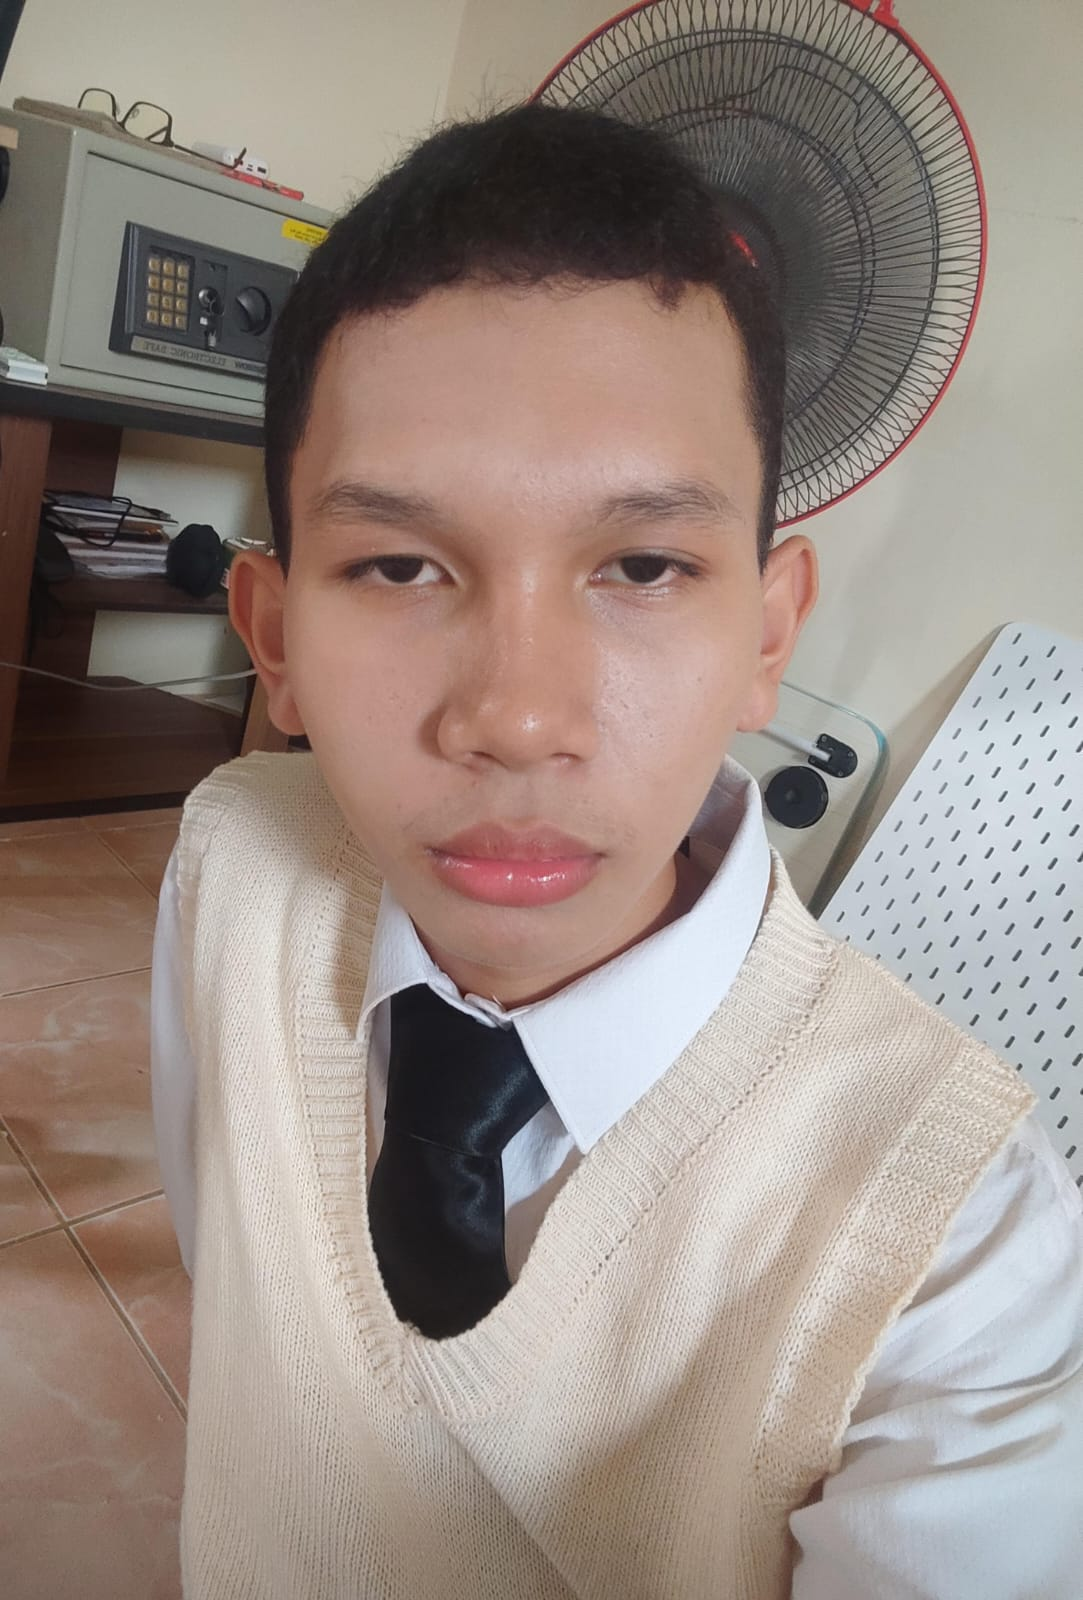
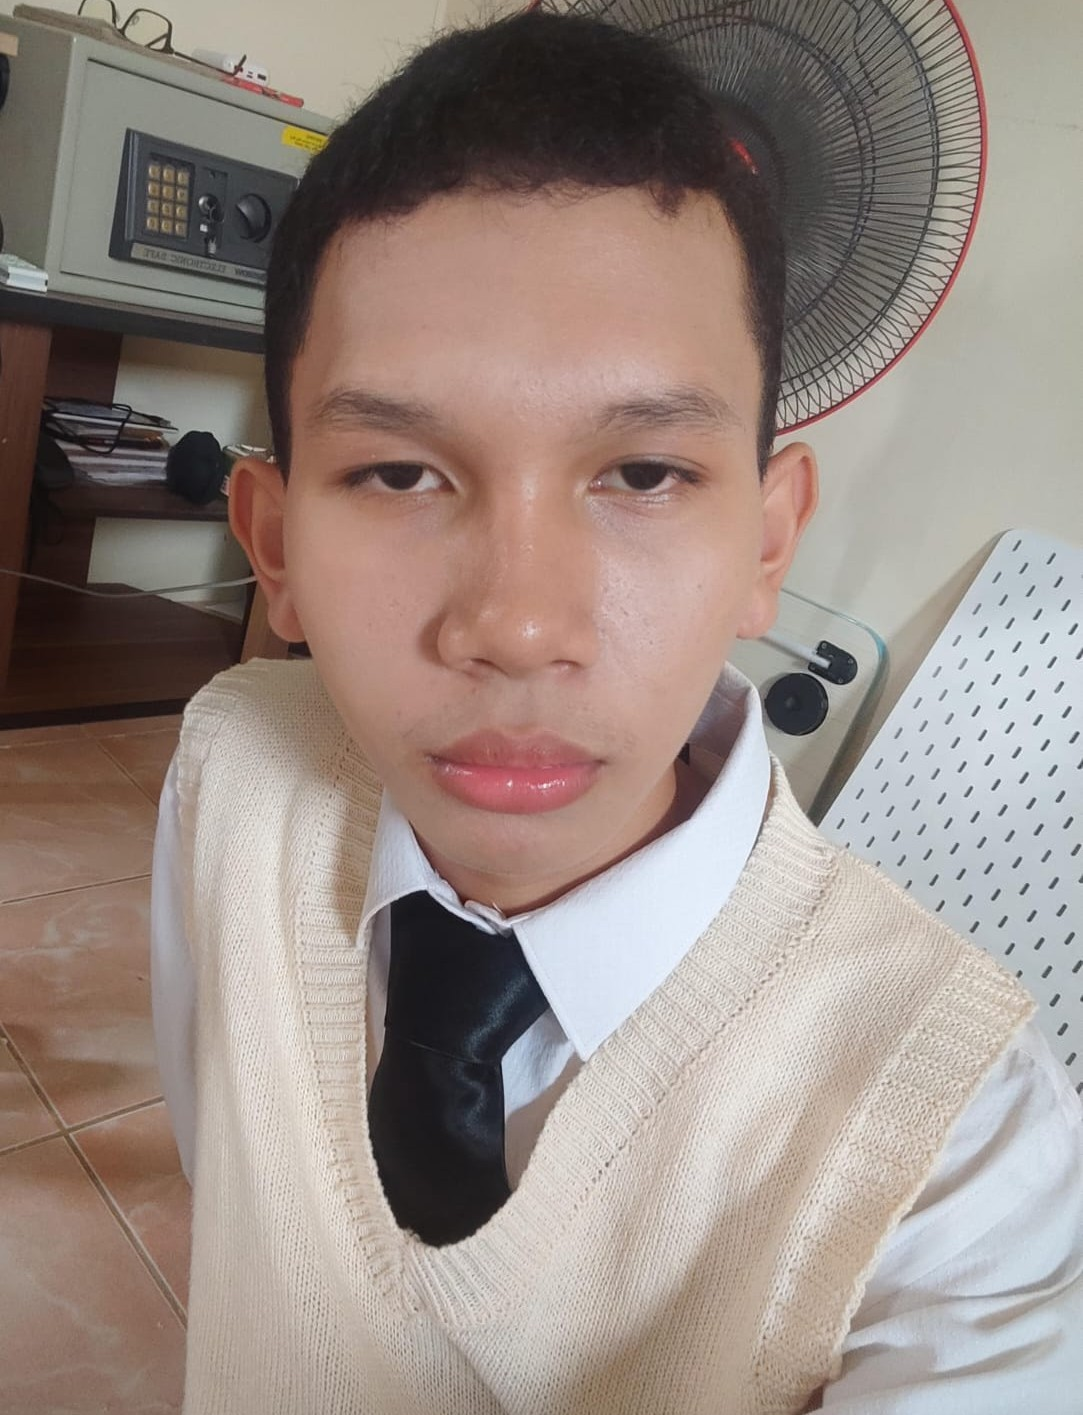
Melanjutkan mendesain landing page, menambahkan href ke navbar di landing page, halaman login, halaman registrasi, dan menambahkan satu halaman baru yaitu halaman projek

diff --git a/projek.html b/projek.html
@@ -1,0 +1,138 @@
+<!DOCTYPE html>
+<html lang="en">
+
+<head>
+  <meta charset="UTF-8" />
+  <meta name="viewport" content="width=device-width, initial-scale=1.0" />
+  <title>PortoPBL</title>
+
+  <link rel="preconnect" href="https://fonts.googleapis.com">
+  <link rel="preconnect" href="https://fonts.gstatic.com" crossorigin>
+  <link href="https://fonts.googleapis.com/css2?family=Poppins:ital,wght@0,100;0,200;0,300;0,400;0,500;0,600;0,700;0,800;0,900;1,100;1,200;1,300;1,400;1,500;1,600;1,700;1,800;1,900&display=swap" rel="stylesheet">
+
+  <link rel="stylesheet" href="css/bootstrap.min.css">
+
+  <link rel="stylesheet" href="styles.css" type="text/css">
+</head>
+
+<body>
+
+  <!-- ===== Navbar ===== -->
+  <nav class="navbar navbar-expand-lg navbar-dark py-3 bg-info shadow">
+    <div class="container">
+      <a class="navbar-brand fw-bold" href="index.html">PortoPBL</a>
+      <button class="navbar-toggler shadow-none" type="button" data-bs-toggle="collapse" data-bs-target="#navbarNavDropdown"
+        aria-controls="navbarNavDropdown" aria-expanded="false" aria-label="Toggle navigation">
+        <span class="navbar-toggler-icon"></span>
+      </button>
+
+      <div class="collapse navbar-collapse" id="navbarNavDropdown">
+        <ul class="navbar-nav ms-auto d-flex gap-3 text-center pt-lg-0 pt-4">
+          <li class="nav-item">
+            <a class="nav-link fw-bold" href="index.html">Beranda</a>
+          </li>
+          <li class="nav-item">
+            <a class="nav-link fw-bold" href="jurusan.html">Jurusan</a>
+          </li>
+          <li class="nav-item">
+            <a class="nav-link fw-bold" href="projek.html">Projek</a>
+          </li>
+          <li class="nav-item">
+            <a class="nav-link fw-bold" href="registrasi.html">Daftar</a>
+          </li>
+        </ul>
+      </div>
+    </div>
+  </nav>
+  <div class="container">
+    <h1 class="my-5">Projek</h1>
+    <div class="row row-cols-1 row-cols-md-3 g-4">
+  <div class="col">
+    <div class="card border border-info">
+      <img src="asset/projek.png" class="card-img-top" alt="Projek Web Portofolio PBL">
+      <div class="card-body">
+        <h5 class="card-title">Web Portofolio Projek PBL</h5>
+        <p class="card-text">Deskripsi Projek : Lorem ipsum</p>
+        <p class="card-text">Dibuat Oleh :</p>
+        <p class="card-text">Nama Mahasiswa : Lorem ipsum</p>
+        <p class="card-text">NIM : Lorem ipsum</p>
+        <a href="#" class="btn btn-outline-info rounded-pill d-flex justify-content-center">Lihat Projek</a>
+      </div>
+    </div>
+  </div>
+  <div class="col">
+    <div class="card border border-info">
+      <img src="asset/projek.png" class="card-img-top" alt="Projek Web Portofolio PBL">
+      <div class="card-body">
+        <h5 class="card-title">Web Portofolio Projek PBL</h5>
+        <p class="card-text">Deskripsi Projek : Lorem ipsum</p>
+        <p class="card-text">Dibuat Oleh :</p>
+        <p class="card-text">Nama Mahasiswa : Lorem ipsum</p>
+        <p class="card-text">NIM : Lorem ipsum</p>
+        <a href="#" class="btn btn-outline-info rounded-pill d-flex justify-content-center">Lihat Projek</a>
+      </div>
+    </div>
+  </div>
+  <div class="col">
+    <div class="card border border-info">
+      <img src="asset/projek.png" class="card-img-top" alt="Projek Web Portofolio PBL">
+      <div class="card-body">
+        <h5 class="card-title">Web Portofolio Projek PBL</h5>
+        <p class="card-text">Deskripsi Projek : Lorem ipsum</p>
+        <p class="card-text">Dibuat Oleh :</p>
+        <p class="card-text">Nama Mahasiswa : Lorem ipsum</p>
+        <p class="card-text">NIM : Lorem ipsum</p>
+        <a href="#" class="btn btn-outline-info rounded-pill d-flex justify-content-center">Lihat Projek</a>
+      </div>
+    </div>
+  </div>
+  <div class="col">
+    <div class="card border border-info">
+      <img src="asset/projek.png" class="card-img-top" alt="Projek Web Portofolio PBL">
+      <div class="card-body">
+        <h5 class="card-title">Web Portofolio Projek PBL</h5>
+        <p class="card-text">Deskripsi Projek : Lorem ipsum</p>
+        <p class="card-text">Dibuat Oleh :</p>
+        <p class="card-text">Nama Mahasiswa : Lorem ipsum</p>
+        <p class="card-text">NIM : Lorem ipsum</p>
+        <a href="#" class="btn btn-outline-info rounded-pill d-flex justify-content-center">Lihat Projek</a>
+      </div>
+    </div>
+  </div>
+  <div class="col">
+    <div class="card border border-info">
+      <img src="asset/projek.png" class="card-img-top" alt="Projek Web Portofolio PBL">
+      <div class="card-body">
+        <h5 class="card-title">Web Portofolio Projek PBL</h5>
+        <p class="card-text">Deskripsi Projek : Lorem ipsum</p>
+        <p class="card-text">Dibuat Oleh :</p>
+        <p class="card-text">Nama Mahasiswa : Lorem ipsum</p>
+        <p class="card-text">NIM : Lorem ipsum</p>
+        <a href="#" class="btn btn-outline-info rounded-pill d-flex justify-content-center">Lihat Projek</a>
+      </div>
+    </div>
+  </div>
+  <div class="col">
+    <div class="card border border-info">
+      <img src="asset/projek.png" class="card-img-top" alt="Projek Web Portofolio PBL">
+      <div class="card-body">
+        <h5 class="card-title">Web Portofolio Projek PBL</h5>
+        <p class="card-text">Deskripsi Projek : Lorem ipsum</p>
+        <p class="card-text">Dibuat Oleh :</p>
+        <p class="card-text">Nama Mahasiswa : Lorem ipsum</p>
+        <p class="card-text">NIM : Lorem ipsum</p>
+        <a href="#" class="btn btn-outline-info rounded-pill d-flex justify-content-center">Lihat Projek</a>
+      </div>
+    </div>
+  </div>
+  </div>
+  </div>
+  <img src="asset/wave-info.svg">
+  <footer class="text-center py-3 bg-light mt-5">
+    &copy; <span>2025</span> Tim Web Portofolio Projek PBL
+  </footer>
+
+  <script src="js/bootstrap.bundle.min.js"></script>
+</body>
+
+</html>

diff --git a/index.html b/index.html
@@ -38,10 +38,10 @@
             <a class="nav-link fw-bold" href="#tim">Tim</a>
           </li>
           <li class="nav-item">
-            <a class="nav-link fw-bold" href="#">Jurusan</a>
+            <a class="nav-link fw-bold" href="jurusan.html">Jurusan</a>
           </li>
           <li class="nav-item">
-            <a class="nav-link fw-bold" href="#">Projek</a>
+            <a class="nav-link fw-bold" href="projek.html">Projek</a>
           </li>
           <li class="nav-item">
             <a class="nav-link fw-bold" href="registrasi.html">Daftar</a>
@@ -55,6 +55,7 @@
   <section class="jumbotron text-center">
     <h1 class="display-3 fw-bold text-white">WELCOME TO PORTOPBL</h1>
     <h2>Platform Portofolio Digital Mahasiswa</h2>
+    <a href="login.html" class="btn btn-outline-light rounded-pill mt-4 text-center" style="width:200px">LOGIN</a>
     <img src="asset/wave.svg" alt="Garis pemisah">
   </section>
 
@@ -86,7 +87,7 @@
 
       <div class="row text-center">
         <div class="col-md-4 mb-3">
-          <div class="card h-100">
+          <div class="card" style="width: 24rem;">
             <img src="tim/zaid.jpeg" class="card-img-top" alt="Zaid Hasbiya Abrar">
             <div class="card-body">
               <p class="card-text">Zaid Hasbiya Abrar</p>
@@ -95,7 +96,7 @@
         </div>
 
         <div class="col-md-4 mb-3">
-          <div class="card h-100">
+          <div class="card" style="width: 26rem;">
             <img src="tim/patur.jpeg" class="card-img-top" alt="Fathur Alfitrah">
             <div class="card-body">
               <p class="card-text">Fathur Alfitrah</p>
@@ -104,7 +105,7 @@
         </div>
 
         <div class="col-md-4 mb-3">
-          <div class="card h-100">
+          <div class="card" style="width: 24rem;">
             <img src="tim/panda.jpeg" class="card-img-top" alt="Reifandra Kinadi">
             <div class="card-body">
               <p class="card-text">Reifandra Kinadi</p>

diff --git a/login.html b/login.html
@@ -4,20 +4,24 @@
     <meta charset="UTF-8">
     <meta name="viewport" content="width=device-width, initial-scale=1.0">
     <title>PortoPBL</title>
+
+    <link rel="preconnect" href="https://fonts.googleapis.com">
+    <link rel="preconnect" href="https://fonts.gstatic.com" crossorigin>
+    <link href="https://fonts.googleapis.com/css2?family=Poppins:ital,wght@0,100;0,200;0,300;0,400;0,500;0,600;0,700;0,800;0,900;1,100;1,200;1,300;1,400;1,500;1,600;1,700;1,800;1,900&display=swap" rel="stylesheet">
+
+  <link rel="stylesheet" href="css/bootstrap.min.css">
     <link rel="stylesheet" href="style_login.css">
 
     
   </head>
 <body>
     <header class="navbar">
-        <div class="logo">PortoPBL</div>
+        <a class="navbar-brand fw-bold text-white" href="index.html">PortoPBL</a>
         <nav class="nav-links">
-            <a href="#">Beranda</a>
-            <a href="#">Tentang</a>
-            <a href="#">Tim</a>
-            <a href="#">Jurusan</a>
-            <a href="#">Projek</a>
-            <a href="#">Daftar</a>
+            <a href="index.html">Beranda</a>
+            <a href="jurusan.html">Jurusan</a>
+            <a href="projek.html">Projek</a>
+            <a href="registrasi.html">Daftar</a>
         </nav>
     </header>
     <div class="login-form">
@@ -36,9 +40,8 @@
         
     </form>
     <a href="index.html"><button type="submit" class="login-btn">Login</button></a>
-    <a href="registrasi.html">Belum Punya Akun? Registrasi Disini</a>
+    <a href="registrasi.html" class="text-center">Belum Punya Akun? Registrasi Disini</a>
     </div><br><br>
-    
-
+    <img src="asset/wave-info.svg">
 </body>
 </html>

diff --git a/registrasi.html b/registrasi.html
@@ -4,20 +4,23 @@
     <meta charset="UTF-8">
     <meta name="viewport" content="width=device-width, initial-scale=1.0">
     <title>PortoPBL</title>
-    <link rel="stylesheet" href="style_registrasi.css">
 
+    <link rel="preconnect" href="https://fonts.googleapis.com">
+    <link rel="preconnect" href="https://fonts.gstatic.com" crossorigin>
+    <link href="https://fonts.googleapis.com/css2?family=Poppins:ital,wght@0,100;0,200;0,300;0,400;0,500;0,600;0,700;0,800;0,900;1,100;1,200;1,300;1,400;1,500;1,600;1,700;1,800;1,900&display=swap" rel="stylesheet">
+
+  <link rel="stylesheet" href="css/bootstrap.min.css">
+    <link rel="stylesheet" href="style_registrasi.css">
     
   </head>
 <body>
     <header class="navbar">
-        <div class="logo">PortoPBL</div>
+        <a class="navbar-brand fw-bold text-white" href="index.html">PortoPBL</a>
         <nav class="nav-links">
-            <a href="#">Beranda</a>
-            <a href="#">Tentang</a>
-            <a href="#">Tim</a>
-            <a href="#">Jurusan</a>
-            <a href="#">Projek</a>
-            <a href="#">Daftar</a>
+            <a href="index.html">Beranda</a>
+            <a href="jurusan.html">Jurusan</a>
+            <a href="projek.html">Projek</a>
+            <a href="registrasi.html">Daftar</a>
         </nav>
     </header>
 
@@ -33,7 +36,7 @@
     <a href="login.html"><button type="submit" class="registrasi-btn">Daftar Sekarang</button></a>
     <a href="login.html">Sudah Punya Akun? Login Disini</a>
     </div><br><br>
-    
+    <img src="asset/wave-info.svg">
 
 </body>
 </html>

diff --git a/style_registrasi.css b/style_registrasi.css
@@ -2,7 +2,7 @@
     margin: 0;
     padding: 0;
     box-sizing: border-box;
-    font-family: Arial, Helvetica, sans-serif
+    font-family: 'Poppins', sans-serif
 }
 .navbar {
     background-color: #00BFFF; /* Warna biru cerah */
@@ -12,14 +12,6 @@
     align-items: center;
     width: 100%;
     box-shadow: 0 2px 4px rgba(0, 0, 0, 0.1); /* Sedikit bayangan */
-}
-
-/* Gaya untuk logo */
-.logo {
-    color: white;
-    font-size: 24px;
-    font-weight: bold;
-    text-transform: uppercase;
 }
 
 /* Gaya untuk kumpulan tautan navigasi */

diff --git a/style_login.css b/style_login.css
@@ -2,7 +2,7 @@
     margin: 0;
     padding: 0;
     box-sizing: border-box;
-    font-family: Arial, Helvetica, sans-serif
+    font-family: 'Poppins', sans-serif
 }
 .navbar {
     background-color: #00BFFF; /* Warna biru cerah */
